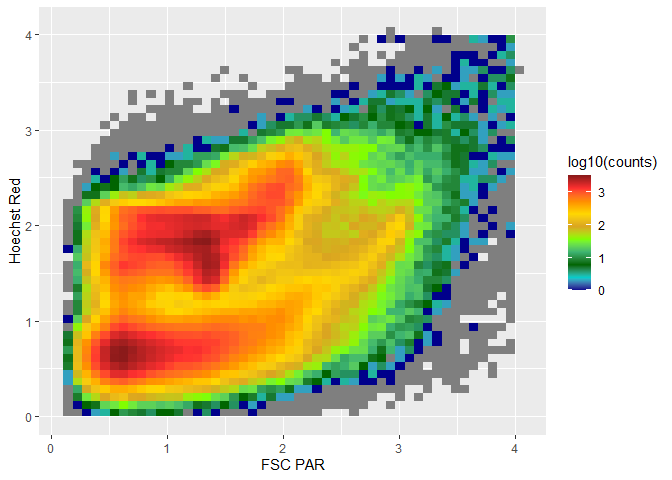
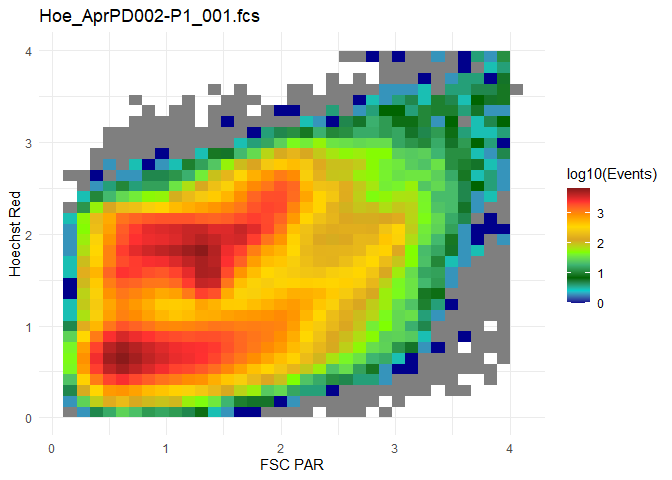
Updated ReadMe

diff --git a/README.md b/README.md
@@ -1,15 +1,14 @@
 
-  - [FlowSoFine](#flowsofine)
-      - [Installation](#installation)
-      - [Quickstart](#quickstart)
-      - [Multidimensional analysis](#multidimensional-analysis)
+-   [FlowSoFine](#flowsofine)
+    -   [Installation](#installation)
+    -   [Quickstart](#quickstart)
+    -   [Multidimensional analysis](#multidimensional-analysis)
 
 <!-- README.md is generated from README.Rmd. Please edit that file -->
 
 # FlowSoFine
 
 <!-- badges: start -->
-
 <!-- badges: end -->
 
 The goal of FlowSoFine is to quickly and easily generate data structures
@@ -52,8 +51,8 @@ library(vegan)
 fcs <- read.flowSet(pattern = ".fcs")
 metadata <- read.csv2("metadata.csv")
 
-#Create the CoreTemplate
-ct <- CoreTemplate(flowset = fcs, channels = c("FSC PAR", "Hoechst Red"), resolution = 50)
+#Create the FSFTemplate
+ct <- FSFTemplate(flowset = fcs, channels = c("FSC PAR", "Hoechst Red"), resolution = 35)
 #>  Processing sample 1 / 14 Processing sample 2 / 14 Processing sample 3 / 14 Processing sample 4 / 14 Processing sample 5 / 14 Processing sample 6 / 14 Processing sample 7 / 14 Processing sample 8 / 14 Processing sample 9 / 14 Processing sample 10 / 14 Processing sample 11 / 14 Processing sample 12 / 14 Processing sample 13 / 14 Processing sample 14 / 14
 
 #plot the first sample of the CoreTemplate
@@ -63,7 +62,6 @@ plot(template = ct, sample = 1)
 <img src="man/figures/README-example-1.png" width="100%" />
 
 ``` r
-
 
 #Create a distance matrix with adjustments for spatial dependencies
 distM <- weightedBray(ct)
@@ -77,10 +75,10 @@ adonis2(distM ~ treatment + age, data = metadata)
 #> 
 #> adonis2(formula = distM ~ treatment + age, data = metadata)
 #>           Df SumOfSqs      R2      F Pr(>F)
-#> treatment  1  0.09892 0.07912 0.8633  0.600
-#> age       10  0.92210 0.73758 0.8048  0.821
-#> Residual   2  0.22915 0.18330              
-#> Total     13  1.25016 1.00000
+#> treatment  1  0.09713 0.07966 0.8612  0.641
+#> age       10  0.89666 0.73536 0.7950  0.844
+#> Residual   2  0.22556 0.18499              
+#> Total     13  1.21935 1.00000
 ```
 
 ## Multidimensional analysis
